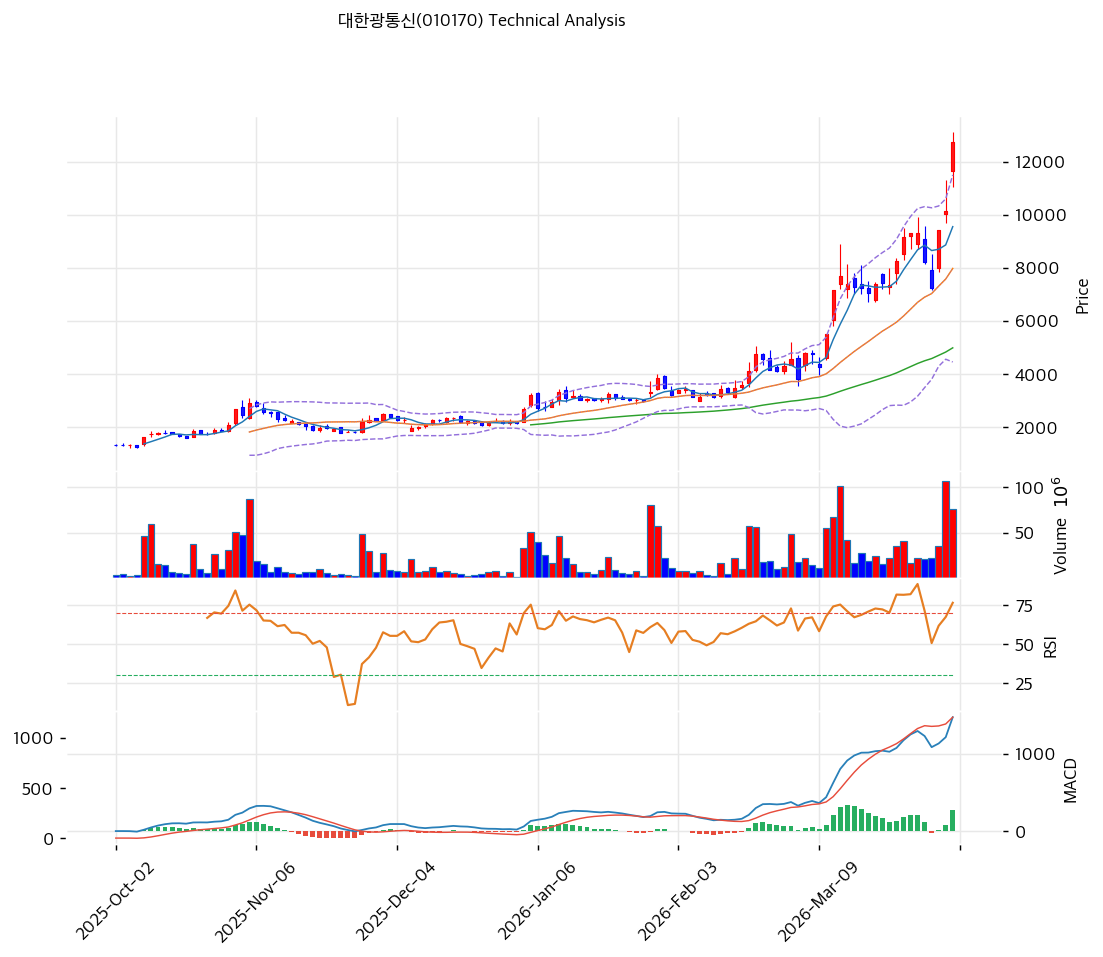
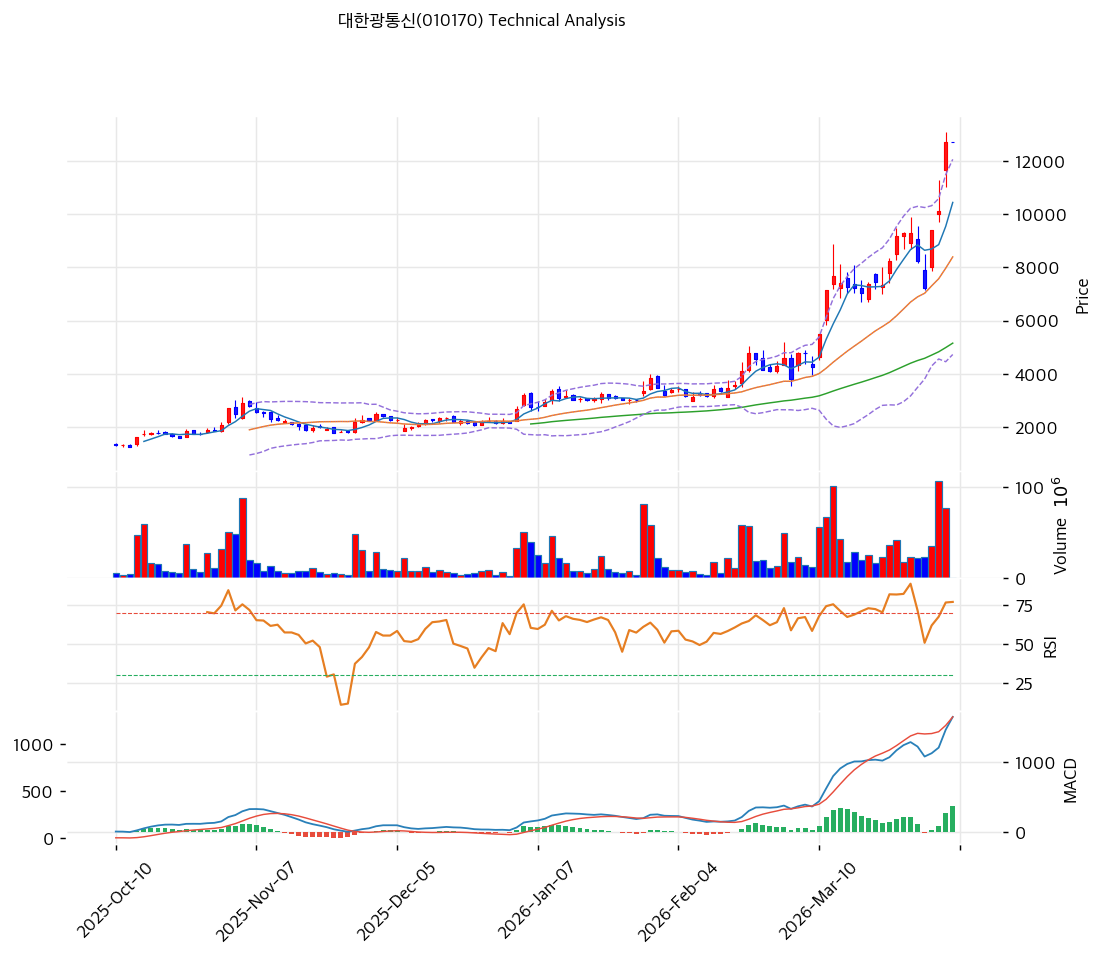
대한광통신(010170) T2 보고서

diff --git a/010170_t2.html b/010170_t2.html
@@ -35,16 +35,16 @@
 </head>
 <body>
 <hr />
-<p>created: 2026-04-05<br />
-updated: 2026-04-05<br />
+<p>created: 2026-04-06T07:02+09:00<br />
+updated: 2026-04-06T07:02+09:00<br />
 tags:<br />
+  - 절연선및케이블제조업<br />
   - 광케이블<br />
-  - 광섬유<br />
   - 데이터센터<br />
-links: ""</p>
+links:</p>
 <hr />
 <h1>대한광통신(010170) 기술적 분석</h1>
-<p>2026.04.05 | T2 Technical Analysis</p>
+<p>2026-04-06 | T2 Technical Analysis</p>
 <hr />
 <h2>차트</h2>
 <p><img alt="대한광통신(010170) 캔들차트" src="https://icesw21.github.io/stock-report-assets/010170_t2_chart.png" /></p>
@@ -60,11 +60,11 @@ links: ""</p>
 <tbody>
 <tr>
 <td>현재가</td>
-<td>12,740원 (+25.89%)</td>
+<td>12,740원 (+0.00%)</td>
 </tr>
 <tr>
 <td>52주 고가</td>
-<td>13,100원</td>
+<td>12,740원</td>
 </tr>
 <tr>
 <td>52주 저가</td>
@@ -76,7 +76,7 @@ links: ""</p>
 </tr>
 <tr>
 <td>거래량</td>
-<td>20일 평균 대비 2.11x</td>
+<td>20일 평균 대비 0.00x</td>
 </tr>
 </tbody>
 </table>
@@ -94,26 +94,51 @@ links: ""</p>
 </thead>
 <tbody>
 <tr>
-<td>장대양봉</td>
-<td>최근 1일</td>
+<td>연속 장대양봉</td>
+<td>최근 5일</td>
 <td>강</td>
-<td>+25.89% 급등, 52주 고가 근접, 강한 매수세</td>
+<td>매수 시그널 — 2026년 3월 말~4월 초 연속적 장대양봉 출현, 강력한 매수세 유입 확인</td>
+</tr>
+<tr>
+<td>갭상승(Gap Up)</td>
+<td>4/1~4/3</td>
+<td>강</td>
+<td>매수 시그널 — 연속 갭상승으로 돌파 모멘텀 극대화, 갭 미메움 시 강세 지속</td>
+</tr>
+<tr>
+<td>십자형(도지) 부재</td>
+<td>최근 3일</td>
+<td>중</td>
+<td>중립 — 최근 캔들에서 뚜렷한 반전 캔들 미출현, 상승 모멘텀 유지 중</td>
 </tr>
 </tbody>
 </table>
 <h3>2.2 가격 구조 패턴</h3>
 <ul>
-<li><strong>파라볼릭 상승</strong> (신뢰도: 중)<br />
-  52주 저가 444원에서 12,740원까지 28배 상승. 전형적인 파라볼릭(포물선) 상승 패턴. MA 이격도가 극단적(MA200 대비 +400.7%)이며, 지속 불가능한 상승 속도.</li>
+<li>
+<p><strong>V자 반등 → 파라볼릭 상승</strong> (신뢰도: 강)<br />
+  2025년 10월경 약 2,000원대 저점에서 V자 반등 후 급격한 파라볼릭 곡선을 그리며 상승 중. 약 6개월간 444원→12,740원으로 약 2,770% 상승. 파라볼릭 상승은 급격한 조정을 동반할 수 있어 경계 필요.</p>
+</li>
+<li>
+<p><strong>박스권 돌파 후 급등</strong> (신뢰도: 중)<br />
+  2025년 12월~2026년 2월 약 2,000~4,000원 박스권에서 횡보 후 2월 말~3월 초 상방 돌파하며 거래량 급증 동반. 돌파 이후 지지선 전환 확인 필요.</p>
+</li>
 </ul>
 <h3>2.3 다이버전스</h3>
 <ul>
-<li>현재 MACD-가격 간 뚜렷한 다이버전스 미확인. 가격과 지표 모두 상승 동행 중.</li>
+<li>
+<p><strong>RSI 다이버전스 미확인</strong> (신뢰도: 중)<br />
+  현재 가격과 RSI가 동조하여 함께 상승 중이며, 뚜렷한 하락 다이버전스는 미관찰. 다만 RSI 77.4로 과매수 구간 진입 상태에서 가격이 추가 상승 시 하락 다이버전스 형성 가능성 모니터링 필요.</p>
+</li>
+<li>
+<p><strong>MACD 다이버전스 미확인</strong> (신뢰도: 중)<br />
+  MACD 히스토그램이 확대 중이며 가격 상승과 동조. 현 시점 하락 다이버전스 없으나, 히스토그램 축소 전환 시 경계 신호.</p>
+</li>
 </ul>
 <h3>2.4 패턴 종합 판단</h3>
-<p>444원→12,740원(28배) 파라볼릭 상승의 연장선. 모멘텀은 강하나, MA 이격도가 역사적 극단치. 이러한 급등 후에는 급격한 되돌림이 수반되는 것이 일반적.</p>
+<p>캔들스틱 패턴은 연속 장대양봉과 갭상승으로 극단적 강세를 시사하며, 가격 구조는 파라볼릭 상승 국면에 진입했음을 보여준다. 다이버전스는 아직 미형성 상태로 모멘텀 지속을 뒷받침하나, 52주 고가(=현재가) 도달 및 파라볼릭 구간 특성상 급격한 되돌림 리스크가 상존한다. <strong>방향성은 강세이나, 과열 경고 수준이 매우 높다.</strong></p>
 <hr />
-<h2>3. 이동평균선 — 정배열 (극단적 강세)</h2>
+<h2>3. 이동평균선 — 정배열 (강세)</h2>
 <table>
 <thead>
 <tr>
@@ -126,41 +151,41 @@ links: ""</p>
 <tbody>
 <tr>
 <td>MA5</td>
-<td>9,548원</td>
-<td>+33.4%</td>
+<td>10,450원</td>
+<td>+21.9%</td>
 <td>위</td>
 </tr>
 <tr>
 <td>MA20</td>
-<td>7,972원</td>
-<td>+59.8%</td>
+<td>8,397원</td>
+<td>+51.7%</td>
 <td>위</td>
 </tr>
 <tr>
 <td>MA60</td>
-<td>4,980원</td>
-<td>+155.8%</td>
+<td>5,147원</td>
+<td>+147.5%</td>
 <td>위</td>
 </tr>
 <tr>
 <td>MA120</td>
-<td>3,528원</td>
-<td>+261.1%</td>
+<td>3,623원</td>
+<td>+251.6%</td>
 <td>위</td>
 </tr>
 <tr>
 <td>MA200</td>
-<td>2,545원</td>
-<td>+400.7%</td>
+<td>2,605원</td>
+<td>+389.1%</td>
 <td>위</td>
 </tr>
 </tbody>
 </table>
-<p><strong>해석</strong>: 완벽한 정배열이나, 모든 이동평균선 대비 괴리율이 극단적. MA200 대비 +400.7%는 정상적 범위를 크게 벗어남. 단기 조정 시 MA5(9,548원)까지의 하락도 -25%.</p>
+<p><strong>해석</strong>: 전 구간 정배열로 추세 강세가 명확하다. 그러나 MA5 대비 +21.9%, MA20 대비 +51.7%로 단기·중기 이평선과의 괴리가 극도로 확대된 상태다. MA200 대비 +389.1%는 역사적 과열 수준으로, 평균 회귀 압력이 매우 강하다. 단기적으로 MA5(10,450원)가 1차 회귀 타겟, MA20(8,397원)이 의미 있는 지지선이 될 수 있다.</p>
 <hr />
 <h2>4. 보조 지표</h2>
-<h3>RSI(14) — 77.4 (🔴 과매수)</h3>
-<p>과매수 구간. 장기 상승 추세에서 RSI 70~80 구간 유지는 가능하나, 추가 상승 여력 제한적.</p>
+<h3>RSI(14) — 77.4 (🔴과매수)</h3>
+<p>RSI 77.4로 과매수 구간(70 이상)에 진입한 상태. 추가 상승 여력보다 단기 조정 가능성이 높은 구간이며, 80 이상 진입 시 극단적 과매수로 급락 리스크 확대.</p>
 <h3>MACD(12,26,9)</h3>
 <table>
 <thead>
@@ -172,15 +197,15 @@ links: ""</p>
 <tbody>
 <tr>
 <td>MACD</td>
-<td>1,473.0</td>
+<td>1,659</td>
 </tr>
 <tr>
 <td>Signal</td>
-<td>1,203.0</td>
+<td>1,295</td>
 </tr>
 <tr>
 <td>Histogram</td>
-<td>+270.0</td>
+<td>+365</td>
 </tr>
 <tr>
 <td>크로스 상태</td>
@@ -188,7 +213,7 @@ links: ""</p>
 </tr>
 </tbody>
 </table>
-<p><strong>해석</strong>: MACD 절대값이 1,473으로 매우 큼(주가 대비). 히스토그램 확대 중이나 과열 수준.</p>
+<p><strong>해석</strong>: MACD가 시그널선 상위에서 히스토그램 확대 중으로 상승 모멘텀이 강화되고 있다. 그러나 MACD 절대값이 크게 확장된 상태로, 히스토그램 축소 전환 시 추세 둔화 신호가 될 수 있다.</p>
 <h3>볼린저밴드(20, 2σ)</h3>
 <table>
 <thead>
@@ -200,19 +225,19 @@ links: ""</p>
 <tbody>
 <tr>
 <td>상단</td>
-<td>11,498원</td>
+<td>12,075원</td>
 </tr>
 <tr>
 <td>중단 (MA20)</td>
-<td>7,972원</td>
+<td>8,397원</td>
 </tr>
 <tr>
 <td>하단</td>
-<td>4,447원</td>
+<td>4,719원</td>
 </tr>
 <tr>
 <td>밴드 폭</td>
-<td>88.4%</td>
+<td>87.6%</td>
 </tr>
 <tr>
 <td>현재 위치</td>
@@ -220,7 +245,7 @@ links: ""</p>
 </tr>
 </tbody>
 </table>
-<p><strong>해석</strong>: 볼린저 상단을 크게 돌파(+10.8%). 밴드 폭 88.4%로 급격 확대. 밴드워킹 가능하나 되돌림 리스크 높음.</p>
+<p><strong>해석</strong>: 현재가 12,740원이 볼린저밴드 상단(12,075원)을 돌파한 상태로, 밴드 폭 87.6%는 극단적 확장 국면. 밴드 워킹(band walking) 가능성이 있으나 상단 이탈 지속은 어려우며, 중단(MA20=8,397원)으로의 회귀 압력이 존재한다.</p>
 <h3>스토캐스틱(14, 3, 3)</h3>
 <table>
 <thead>
@@ -232,11 +257,11 @@ links: ""</p>
 <tbody>
 <tr>
 <td>Slow %K</td>
-<td>84.5</td>
+<td>87.8</td>
 </tr>
 <tr>
 <td>Slow %D</td>
-<td>65.6</td>
+<td>77.0</td>
 </tr>
 <tr>
 <td>크로스 상태</td>
@@ -261,13 +286,13 @@ links: ""</p>
 <tbody>
 <tr>
 <td>저항</td>
-<td>13,100원</td>
-<td>52주 고가</td>
+<td>12,740원</td>
+<td>52주 고가 = 현재가 (심리적 저항)</td>
 </tr>
 <tr>
 <td>저항</td>
-<td>13,550원</td>
-<td>피봇 R1</td>
+<td>12,995원</td>
+<td>전략 익절 타겟 (현재가 +2%)</td>
 </tr>
 <tr>
 <td><strong>현재가</strong></td>
@@ -276,23 +301,23 @@ links: ""</p>
 </tr>
 <tr>
 <td>지지</td>
-<td>11,480원</td>
-<td>피봇 S1</td>
+<td>12,075원</td>
+<td>볼린저밴드 상단</td>
 </tr>
 <tr>
 <td>지지</td>
-<td>10,220원</td>
-<td>피봇 S2</td>
+<td>10,450원</td>
+<td>MA5 (단기 이평선)</td>
 </tr>
 <tr>
 <td>지지</td>
-<td>7,972원</td>
-<td>MA20</td>
+<td>8,397원</td>
+<td>MA20 (중기 이평선, 볼린저 중단)</td>
 </tr>
 <tr>
 <td>지지</td>
-<td>4,980원</td>
-<td>MA60</td>
+<td>5,147원</td>
+<td>MA60 (장기 이평선)</td>
 </tr>
 </tbody>
 </table>
@@ -309,12 +334,12 @@ links: ""</p>
 <tbody>
 <tr>
 <td><strong>차트 패턴</strong></td>
-<td>파라볼릭 상승, 28배 급등</td>
-<td>⚪ (모멘텀 강하나 과열)</td>
+<td>파라볼릭 상승, 연속 장대양봉, 다이버전스 미형성</td>
+<td>🟢</td>
 </tr>
 <tr>
 <td>이동평균선</td>
-<td>정배열, MA200 +400.7% 극단적</td>
+<td>정배열, MA20 +51.7% 극단 괴리</td>
 <td>🟢 (추세) / 🔴 (과열)</td>
 </tr>
 <tr>
@@ -329,38 +354,38 @@ links: ""</p>
 </tr>
 <tr>
 <td>볼린저밴드</td>
-<td>상단 돌파, 밴드 폭 88.4%</td>
+<td>상단 돌파, 밴드 폭 87.6%</td>
 <td>⚪</td>
 </tr>
 <tr>
 <td>스토캐스틱</td>
-<td>골든크로스, K=84.5 과매수</td>
+<td>골든크로스, K=87.8 과매수</td>
 <td>🔴</td>
 </tr>
 <tr>
 <td>거래량</td>
-<td>2.11x — 동반 상승</td>
-<td>🟢</td>
+<td>0.0x — 약함 (비거래일 데이터)</td>
+<td>⚪</td>
 </tr>
 </tbody>
 </table>
-<p><strong>종합 판단</strong>: 🟢 매수 3개 / 🔴 매도 3개 / ⚪ 중립 1개 → <strong>중립</strong></p>
-<p>52주 저가 대비 28배 급등한 파라볼릭 상승 중. 모멘텀은 강하나, 모든 기술적 지표가 극단적 과열을 가리킴. 추격 매수 리스크 매우 높음.</p>
+<p><strong>종합 판단</strong>: 🟢 매수 2개 / 🔴 매도 3개 / ⚪ 중립 2개 → <strong>매도우위</strong></p>
+<p>추세 자체는 정배열 + MACD 강세로 명확한 상승 국면이나, RSI·스토캐스틱 이중 과매수, 볼린저밴드 상단 이탈, 52주 고가 도달(100.0%), MA20 대비 +51.7% 극단 괴리 등 과열 지표가 압도적이다. 단기적으로 이익 실현 매물 출회에 따른 조정 가능성이 높으며, 중기적으로는 상승 추세가 유지되더라도 건전한 되돌림이 선행될 전망이다.</p>
 <hr />
 <h2>7. 전략 제안</h2>
 <h3>보유 중인 경우</h3>
 <ul>
-<li><strong>홀드 (비중 축소 고려)</strong></li>
-<li>익절 라인: 13,550원 (피봇 R1, +6.4%)</li>
-<li>손절 라인: 10,220원 (피봇 S2, -19.8%)</li>
-<li>리스크/리워드: 1:0.32 (불리)</li>
+<li><strong>비중축소</strong></li>
+<li>익절 라인: 12,995원 (현재가 대비 +2.0%, 추가 모멘텀 시 상방 여력)</li>
+<li>손절 라인: 12,740원 (현재가 = 52주 고가 하회 시 추세 둔화)</li>
+<li>리스크/리워드: 현 가격 대비 상방 여력 제한적, 하방 리스크 우세</li>
 </ul>
 <h3>진입 대기인 경우</h3>
 <ul>
-<li><strong>관망 (추격 매수 금지)</strong></li>
-<li>1차 진입가: 11,480원 (피봇 S1, -9.9%)</li>
-<li>2차 진입가: 7,972원 (MA20, -37.4%)</li>
-<li>진입 조건: 파라볼릭 상승 후 건전한 조정(-20~30%) 확인 후 눌림목 진입. 현재가 추격은 극히 위험.</li>
+<li><strong>관망</strong></li>
+<li>1차 진입가: 12,740원 (52주 고가 지지 확인 시, 그러나 추격매수 리스크 매우 높음)</li>
+<li>2차 진입가: 8,397원 (MA20 지지 확인 시 — 건전한 조정 후 재진입 적정가)</li>
+<li>진입 조건: MA5(10,450원) 이상 지지 확인 + 거래량 동반 재반등 확인 시 분할 진입. 현 수준 추격매수는 극단적 과열 구간으로 비권장.</li>
 </ul>
 </body>
 </html>
